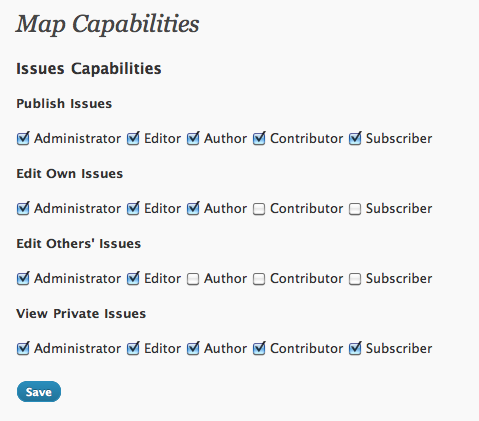
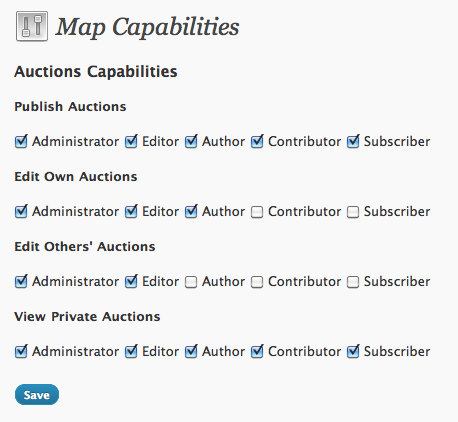
Changing screen shot. Refactoring settings page.

diff --git a/map_cap.php b/map_cap.php
@@ -34,17 +34,18 @@ function mc_capabilities_settings_page() {
 
 	$post_types = get_post_types( array( 'public'   => true, '_builtin' => false ), 'objects' );
 
-	?>
-	<div class="wrap map-cap-settings">
-	  <h2><?php _e( 'Map Capabilities', 'map-cap' ); ?></h2>
 
-	  <?php if ( !empty( $message ) ) : ?>
-	    <div id="message" class="updated fade"><p><?php echo $message; ?></p></div>
-	  <?php endif; ?>
+	echo '<div class="wrap map-cap-settings">';
+	screen_icon();
+	echo '<h2>' . __( 'Map Capabilities', 'map-cap' ) . '</h2>';
 
-	  <?php if ( !empty( $post_types ) ) { ?>
-		  <form id="map-cap-form" method="post" action="">
-		<?php
+	if ( !empty( $message ) )
+		echo '<div id="message" class="updated fade"><p>' . $message . '</p></div>';
+
+	if ( empty( $post_types ) ) :
+		echo '<p>' . __( 'No custom post types registered.', 'map-cap' ) . '</p>';
+	else:
+		echo '<form id="map-cap-form" method="post" action="">';
 
 		foreach( $post_types as $post_type => $post_type_details ) {
 
@@ -53,7 +54,7 @@ function mc_capabilities_settings_page() {
 
 			wp_nonce_field( 'mc_capabilities_settings' );
 			?>
-			<h3><?php printf( __( '%s Capabilities', 'map-cap' ), $post_type_details->labels->singular_name ); ?></h3>
+			<h3><?php printf( __( '%s Capabilities', 'map-cap' ), $post_type_details->labels->name ); ?></h3>
 
 			<? // Allow publish ?>
 			<div class="map-cap">
@@ -103,11 +104,9 @@ function mc_capabilities_settings_page() {
 			<input type="submit" name="submit" class="button button-primary" value="<?php _e( 'Save', 'map-cap' ); ?>" />
 		</p>
 		</form>
-	<?php } else { ?>
-		<p><?php _e( 'No custom post types registered.', 'map-cap' ); ?></p>
-	<?php } ?>
-	</div>
-	<?php
+		<?php
+	endif;
+	echo '</div>';
 }
 
 
